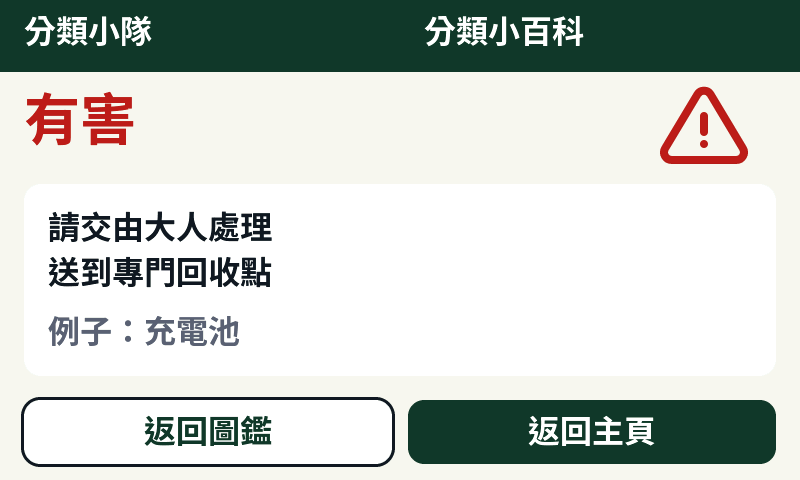
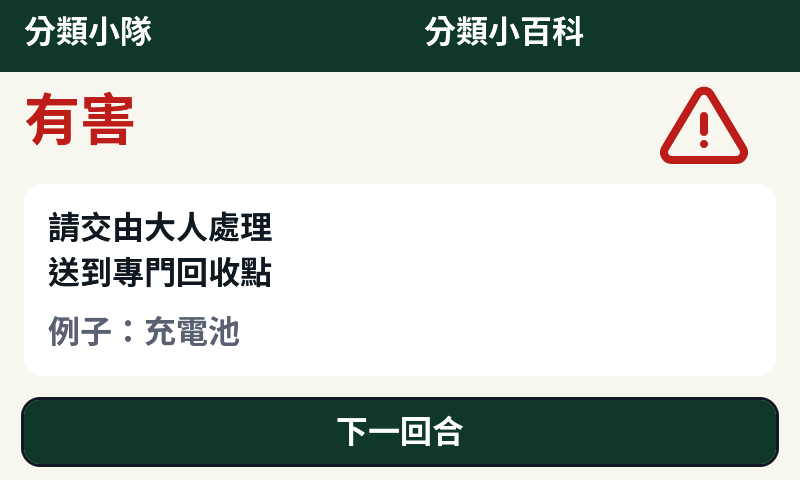
fix(ui): regenerate preview baselines after greenbean guide relabel

Changed region(s): [[0.0312, 0.8125, 0.9688, 1.0], [0.9688, 0.8438, 1.0, 0.9375], [0.9375, 0.9375, 0.9688, 0.9688]]

diff --git a/ui/lvgl/tools/capture.py b/ui/lvgl/tools/capture.py
@@ -1,8 +1,16 @@
 #!/usr/bin/env python3
-"""Convert actual native framebuffer BMP captures; build review contact sheets."""
+"""Capture current native framebuffers, convert them to PNG, and build contact sheets."""
+import os
+import subprocess
 from pathlib import Path
 from PIL import Image,ImageDraw
+preview=Path(__file__).resolve().parents[1]/'preview'
 folder=Path(__file__).resolve().parents[1]/'preview/render'
+subprocess.run(
+    [str(preview/'bin/main'),'--screenshots',str(folder)],
+    check=True,
+    env={**os.environ,'SDL_VIDEODRIVER':'dummy','SDL_RENDER_DRIVER':'software'},
+)
 for p in folder.glob('*.bmp'):
     image=Image.open(p).convert('RGB');assert image.size==(800,480);image.save(p.with_suffix('.png'))
 def sheet(files,name,columns):
